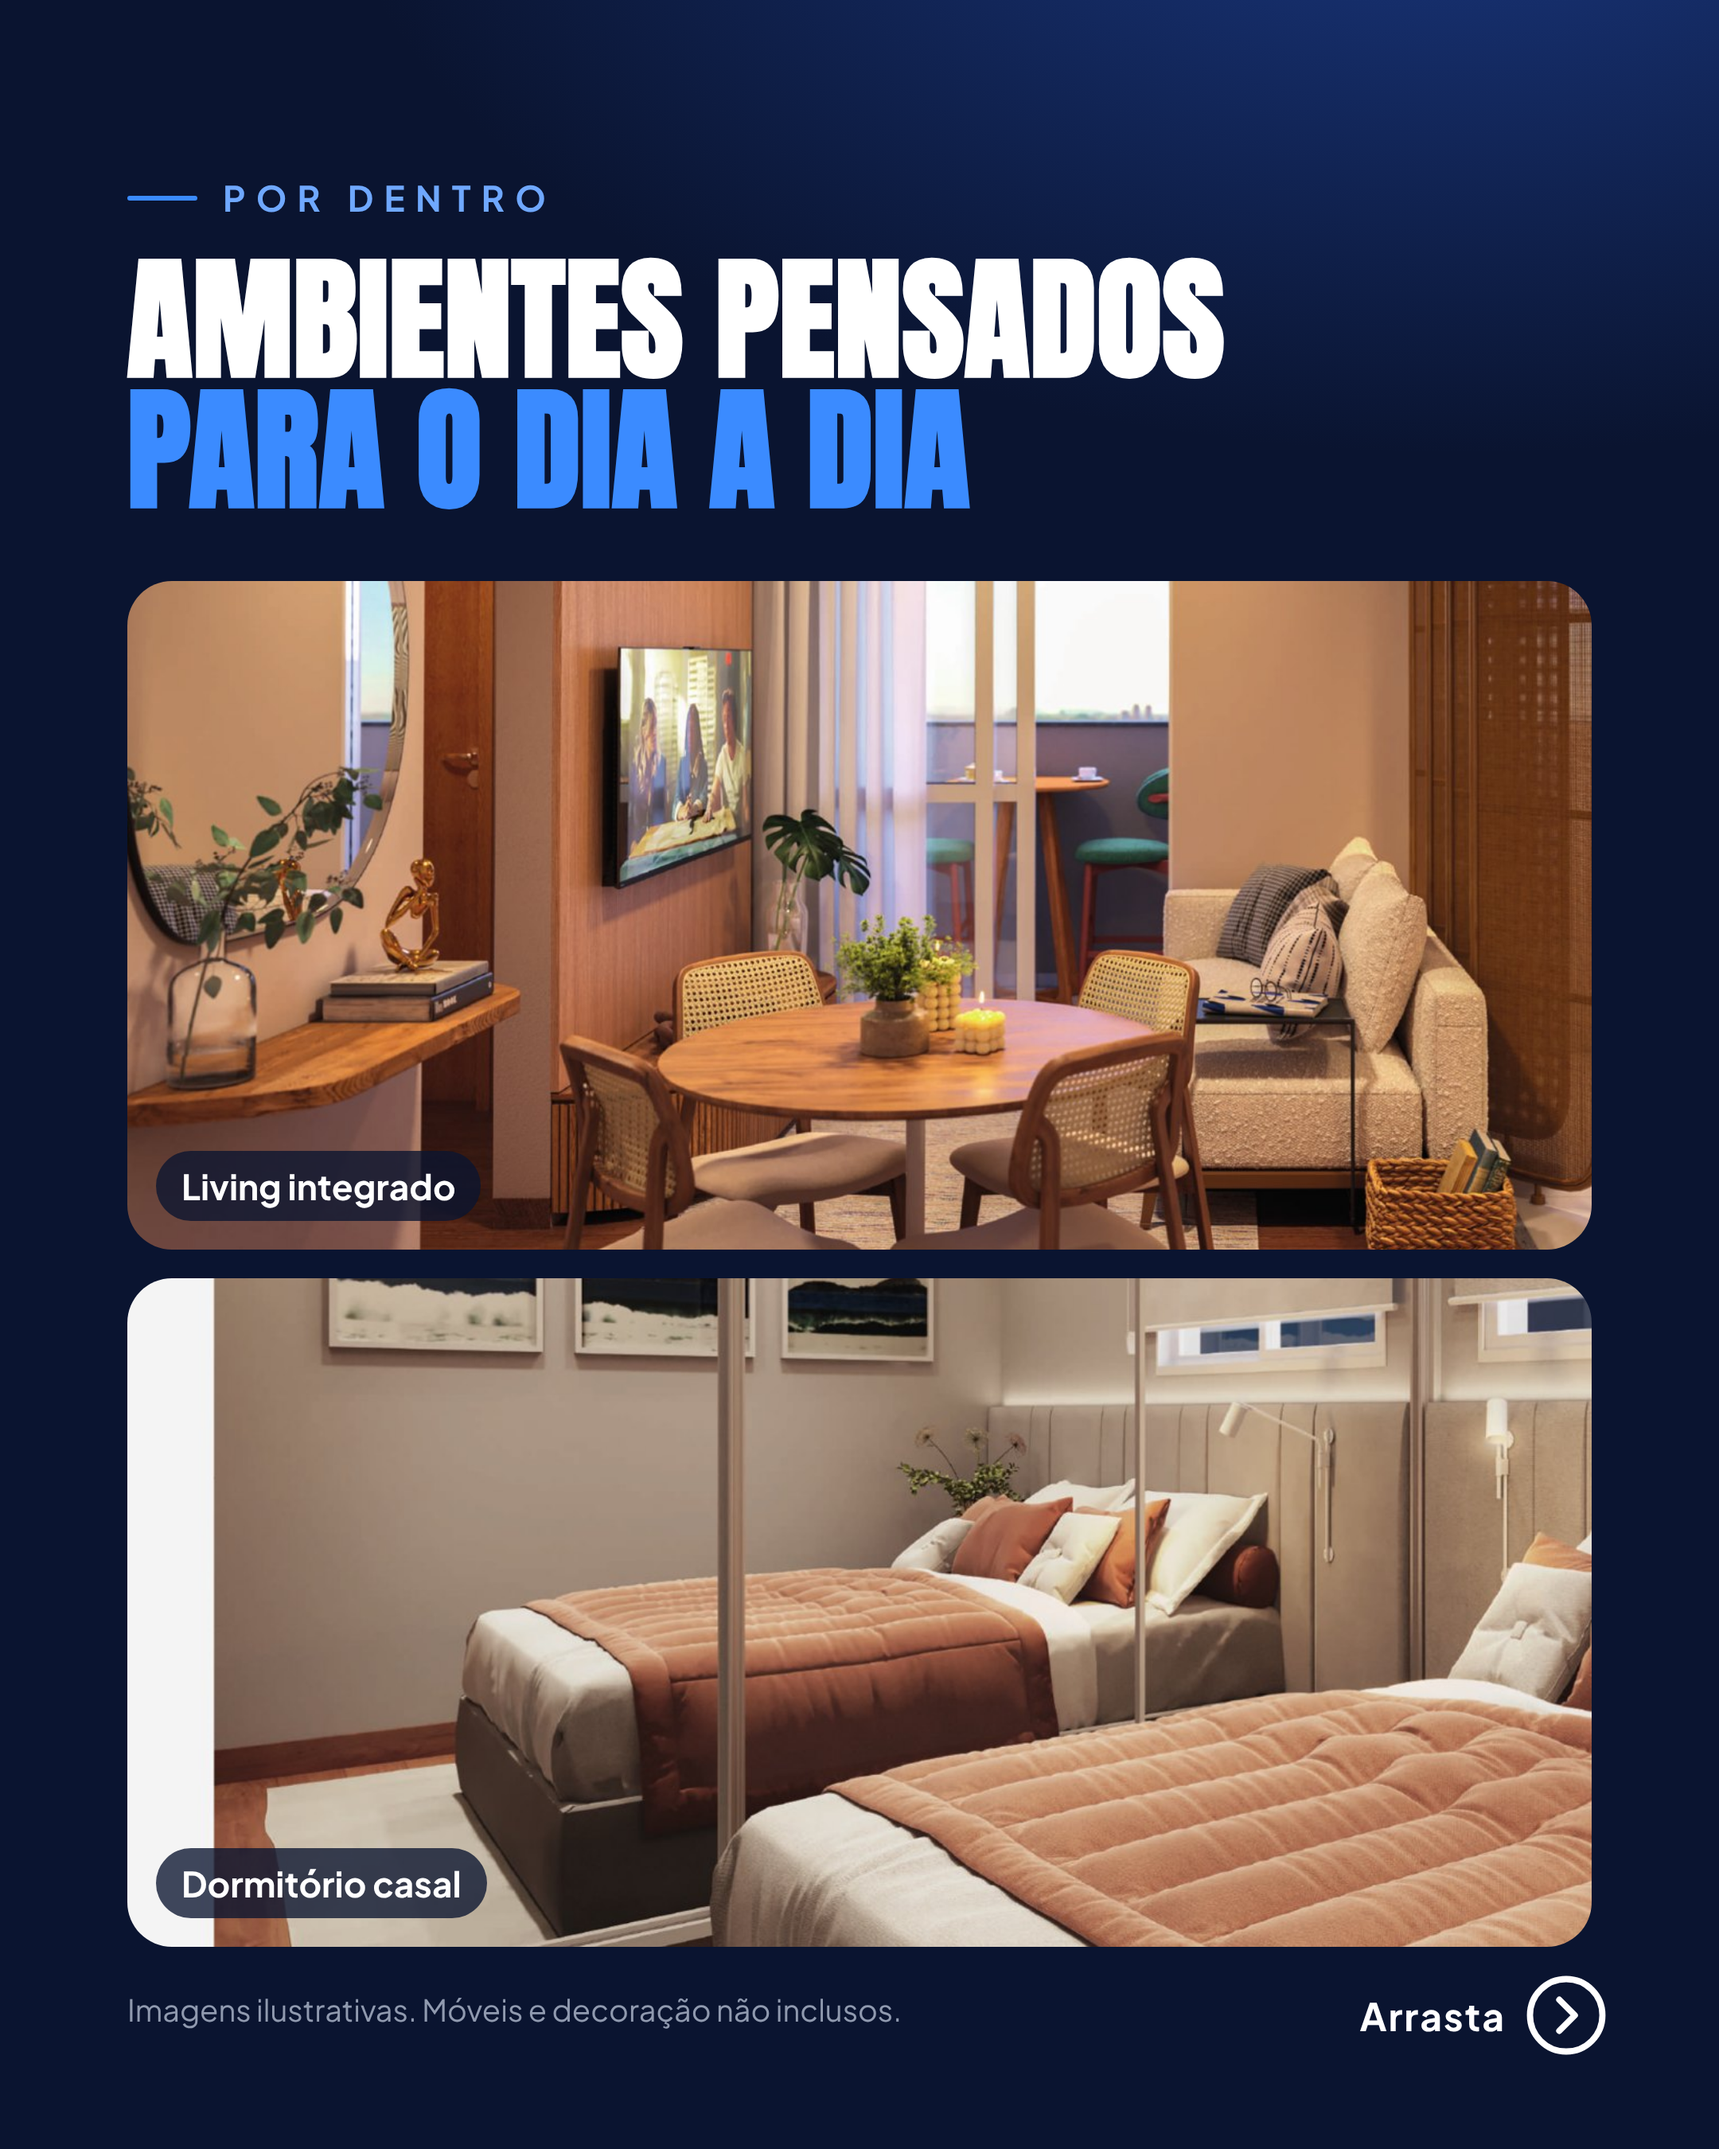
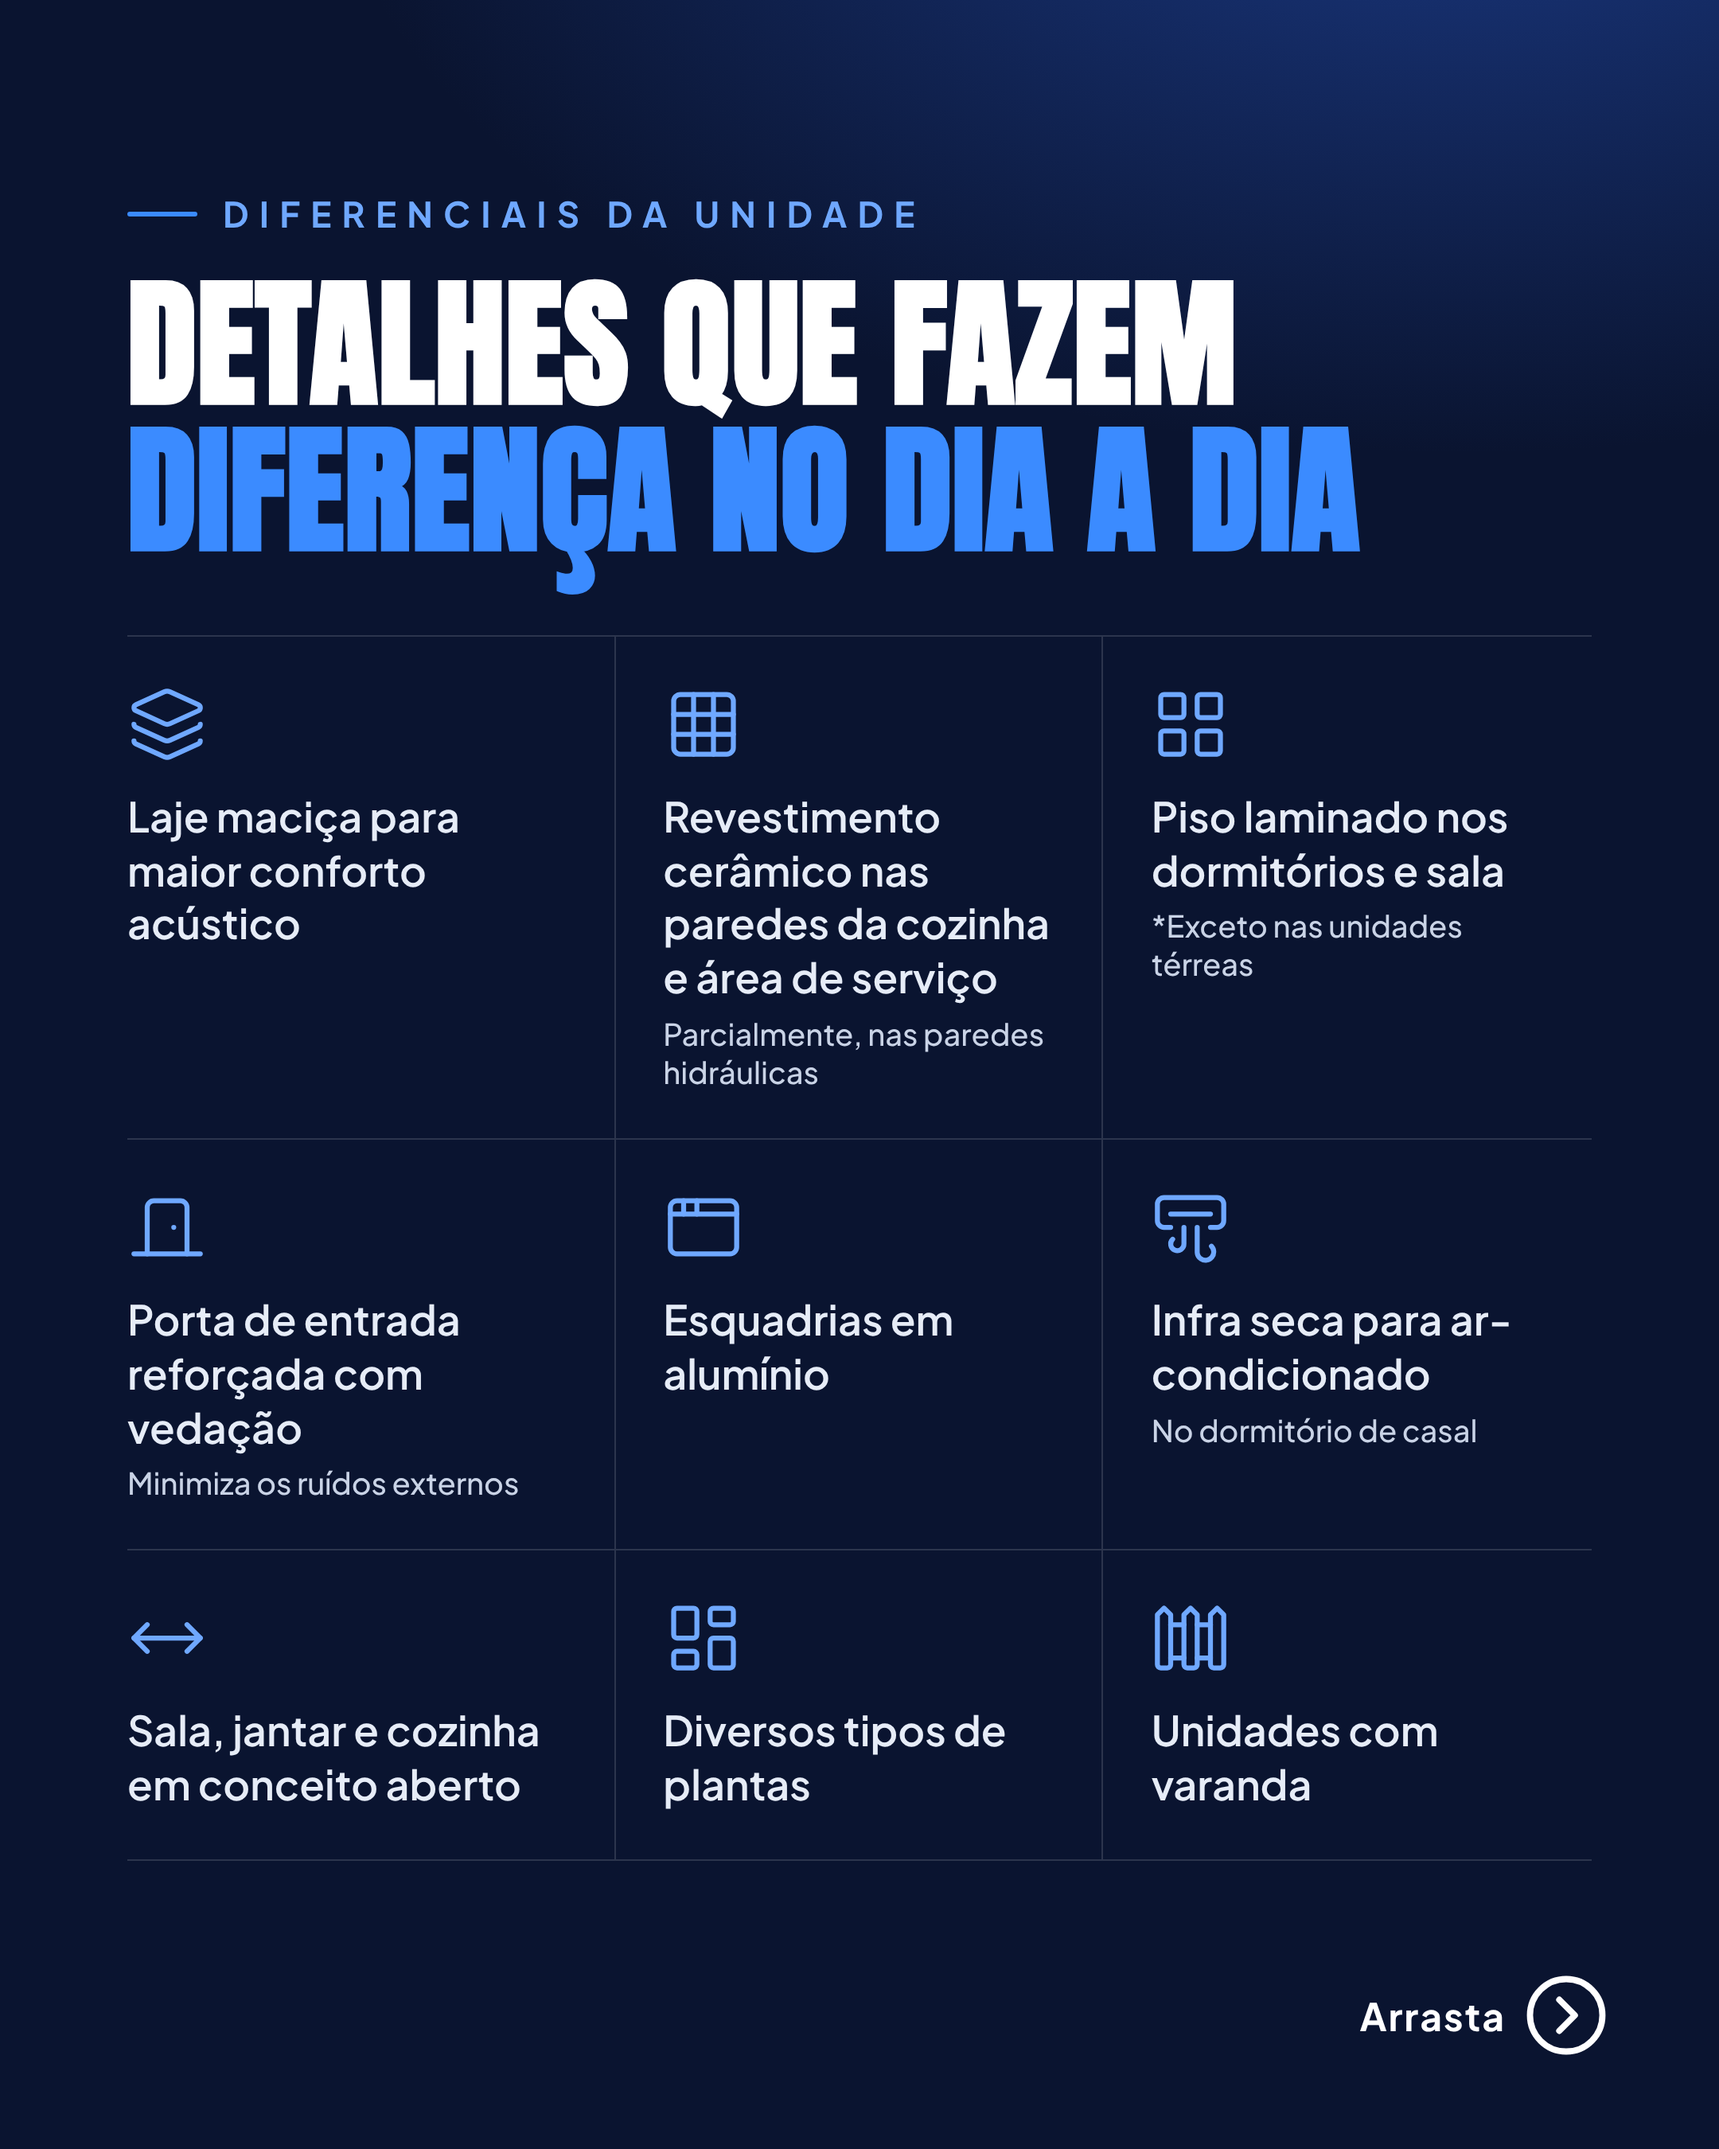
Carrossel OSK: lâminas de diferenciais da unidade e de fluxo de pagamento personalizado (11 lâminas)
Claude-Session: https://claude.ai/code/session_018X91MFfPMRMPYSAfb3KdfT

diff --git a/docs/posicionamento/carrosseis/2026-10-12-osk/laminas.html b/docs/posicionamento/carrosseis/2026-10-12-osk/laminas.html
@@ -82,6 +82,25 @@
   .cta .l1 { font-size:42px; font-weight:500; }
   .cta .l2 { font-size:210px; color:var(--azul); margin:6px 0 10px; }
   .cta .l3 { font-size:38px; font-weight:500; line-height:1.25; color:#E6ECF7; }
+
+  /* diferenciais da unidade */
+  .difs .grade { display:grid; grid-template-columns:1fr 1fr 1fr; margin-top:44px; border-top:1.5px solid var(--linha); }
+  .difs .c { padding:30px 22px 30px 0; border-bottom:1.5px solid var(--linha); }
+  .difs .c:not(:nth-child(3n)) { border-right:1.5px solid var(--linha); }
+  .difs .c:not(:nth-child(3n+1)) { padding-left:30px; }
+  .difs .c svg { width:50px; height:50px; fill:none; stroke:var(--azul2); stroke-width:1.5; stroke-linecap:round; stroke-linejoin:round; display:block; margin-bottom:16px; }
+  .difs .c p { font-size:26px; line-height:1.3; color:#E6ECF7; font-weight:600; }
+  .difs .c small { display:block; font-size:19px; color:var(--texto); font-weight:500; margin-top:6px; }
+  /* fluxo de pagamento */
+  .fluxo .passos { margin-top:52px; position:relative; }
+  .fluxo .passos::before { content:""; position:absolute; left:47px; top:60px; bottom:60px; width:3px; background:linear-gradient(var(--azul), rgba(59,139,255,.15)); }
+  .fluxo .p { display:flex; gap:34px; align-items:flex-start; margin-bottom:34px; position:relative; }
+  .fluxo .n { width:96px; height:96px; border-radius:50%; background:var(--navy); border:3px solid var(--azul); display:grid; place-items:center; flex-shrink:0; }
+  .fluxo .n svg { width:44px; height:44px; fill:none; stroke:#fff; stroke-width:1.8; stroke-linecap:round; stroke-linejoin:round; }
+  .fluxo .p small { font-size:20px; font-weight:800; letter-spacing:.24em; color:var(--azul2); text-transform:uppercase; }
+  .fluxo .p h3 { font-size:42px; font-weight:800; margin:6px 0 10px; }
+  .fluxo .destaque { margin-top:10px; background:rgba(59,139,255,.12); border:1.5px solid rgba(59,139,255,.45); border-radius:24px; padding:30px 36px; font-size:30px; line-height:1.4; color:#E6ECF7; }
+  .fluxo .destaque b { color:#fff; }
 </style></head>
 <body>
 
@@ -171,6 +190,15 @@
   <div class="seta"><span>Arrasta</span><svg viewBox="0 0 24 24"><circle cx="12" cy="12" r="10.5"/><path d="M10 7.5 14.5 12 10 16.5"/></svg></div>
 </section>
 
+<section class="lamina difs">
+  <div class="corpo" style="top:120px">
+    <div class="eyebrow">Diferenciais da unidade</div>
+    <h2 class="cond titulo" style="font-size:88px; line-height:1.05">Detalhes que fazem<br><em>diferença no dia a dia</em></h2>
+    <div class="grade"><div class="c"><svg viewBox="0 0 24 24"><path d="M12.83 2.18a2 2 0 0 0-1.66 0L2.6 6.08a1 1 0 0 0 0 1.83l8.58 3.91a2 2 0 0 0 1.66 0l8.58-3.9a1 1 0 0 0 0-1.83z" /> <path d="M2 12a1 1 0 0 0 .58.91l8.6 3.91a2 2 0 0 0 1.65 0l8.58-3.9A1 1 0 0 0 22 12" /> <path d="M2 17a1 1 0 0 0 .58.91l8.6 3.91a2 2 0 0 0 1.65 0l8.58-3.9A1 1 0 0 0 22 17" /></svg><p>Laje maciça para maior conforto acústico</p></div><div class="c"><svg viewBox="0 0 24 24"><rect width="18" height="18" x="3" y="3" rx="2" /> <path d="M3 9h18" /> <path d="M3 15h18" /> <path d="M9 3v18" /> <path d="M15 3v18" /></svg><p>Revestimento cerâmico nas paredes da cozinha e área de serviço</p><small>Parcialmente, nas paredes hidráulicas</small></div><div class="c"><svg viewBox="0 0 24 24"><rect width="7" height="7" x="3" y="3" rx="1" /> <rect width="7" height="7" x="14" y="3" rx="1" /> <rect width="7" height="7" x="14" y="14" rx="1" /> <rect width="7" height="7" x="3" y="14" rx="1" /></svg><p>Piso laminado nos dormitórios e sala</p><small>*Exceto nas unidades térreas</small></div><div class="c"><svg viewBox="0 0 24 24"><path d="M18 20V6a2 2 0 0 0-2-2H8a2 2 0 0 0-2 2v14" /> <path d="M2 20h20" /> <path d="M14 12v.01" /></svg><p>Porta de entrada reforçada com vedação</p><small>Minimiza os ruídos externos</small></div><div class="c"><svg viewBox="0 0 24 24"><rect x="2" y="4" width="20" height="16" rx="2" /> <path d="M10 4v4" /> <path d="M2 8h20" /> <path d="M6 4v4" /></svg><p>Esquadrias em alumínio</p></div><div class="c"><svg viewBox="0 0 24 24"><path d="M6 12H4a2 2 0 0 1-2-2V5a2 2 0 0 1 2-2h16a2 2 0 0 1 2 2v5a2 2 0 0 1-2 2h-2" /> <path d="M6 8h12" /> <path d="M18.3 17.7a2.5 2.5 0 0 1-3.16 3.83 2.53 2.53 0 0 1-1.14-2V12" /> <path d="M6.6 15.6A2 2 0 1 0 10 17v-5" /></svg><p>Infra seca para ar-condicionado</p><small>No dormitório de casal</small></div><div class="c"><svg viewBox="0 0 24 24"><path d="m18 8 4 4-4 4" /> <path d="M2 12h20" /> <path d="m6 8-4 4 4 4" /></svg><p>Sala, jantar e cozinha em conceito aberto</p></div><div class="c"><svg viewBox="0 0 24 24"><rect width="7" height="9" x="3" y="3" rx="1" /> <rect width="7" height="5" x="14" y="3" rx="1" /> <rect width="7" height="9" x="14" y="12" rx="1" /> <rect width="7" height="5" x="3" y="16" rx="1" /></svg><p>Diversos tipos de plantas</p></div><div class="c"><svg viewBox="0 0 24 24"><path d="M4 3 2 5v15c0 .6.4 1 1 1h2c.6 0 1-.4 1-1V5Z" /> <path d="M6 8h4" /> <path d="M6 18h4" /> <path d="m12 3-2 2v15c0 .6.4 1 1 1h2c.6 0 1-.4 1-1V5Z" /> <path d="M14 8h4" /> <path d="M14 18h4" /> <path d="m20 3-2 2v15c0 .6.4 1 1 1h2c.6 0 1-.4 1-1V5Z" /></svg><p>Unidades com varanda</p></div></div>
+  </div>
+  <div class="seta"><span>Arrasta</span><svg viewBox="0 0 24 24"><circle cx="12" cy="12" r="10.5"/><path d="M10 7.5 14.5 12 10 16.5"/></svg></div>
+</section>
+
 <section class="lamina dentro">
   <div class="corpo" style="top:110px">
     <div class="eyebrow">Por dentro</div>
@@ -195,6 +223,21 @@
       <div class="pl"><img src="img/planta-garden-c.jpg" alt=""><div>55,32 m²<small>+ 27,56 m² de garden</small></div></div>
     </div>
   </div>
+  <div class="seta"><span>Arrasta</span><svg viewBox="0 0 24 24"><circle cx="12" cy="12" r="10.5"/><path d="M10 7.5 14.5 12 10 16.5"/></svg></div>
+</section>
+
+<section class="lamina fluxo">
+  <div class="corpo" style="top:120px">
+    <div class="eyebrow">Pagamento</div>
+    <h2 class="cond titulo" style="font-size:88px; line-height:1.05">Um fluxo de pagamento<br><em>do seu tamanho</em></h2>
+    <div class="passos">
+      <div class="p"><span class="n"><svg viewBox="0 0 24 24"><rect width="16" height="20" x="4" y="2" rx="2" /> <line x1="8" x2="16" y1="6" y2="6" /> <line x1="16" x2="16" y1="14" y2="18" /> <path d="M16 10h.01" /> <path d="M12 10h.01" /> <path d="M8 10h.01" /> <path d="M12 14h.01" /> <path d="M8 14h.01" /> <path d="M12 18h.01" /> <path d="M8 18h.01" /></svg></span><div><small>Passo 1</small><h3>Simulação sem compromisso</h3><p class="texto">Entendo a sua renda, o seu momento e quanto você quer investir por mês.</p></div></div>
+      <div class="p"><span class="n"><svg viewBox="0 0 24 24"><line x1="21" x2="14" y1="4" y2="4" /> <line x1="10" x2="3" y1="4" y2="4" /> <line x1="21" x2="12" y1="12" y2="12" /> <line x1="8" x2="3" y1="12" y2="12" /> <line x1="21" x2="16" y1="20" y2="20" /> <line x1="12" x2="3" y1="20" y2="20" /> <line x1="14" x2="14" y1="2" y2="6" /> <line x1="8" x2="8" y1="10" y2="14" /> <line x1="16" x2="16" y1="18" y2="22" /></svg></span><div><small>Passo 2</small><h3>Fluxo personalizado</h3><p class="texto">Montamos juntos a entrada e as parcelas durante a obra de um jeito que cabe no seu orçamento.</p></div></div>
+      <div class="p"><span class="n"><svg viewBox="0 0 24 24"><line x1="3" x2="21" y1="22" y2="22" /> <line x1="6" x2="6" y1="18" y2="11" /> <line x1="10" x2="10" y1="18" y2="11" /> <line x1="14" x2="14" y1="18" y2="11" /> <line x1="18" x2="18" y1="18" y2="11" /> <polygon points="12 2 20 7 4 7" /></svg></span><div><small>Passo 3</small><h3>Financiamento na entrega</h3><p class="texto">O saldo é financiado com o banco, com todo o acompanhamento até a sua chave.</p></div></div>
+    </div>
+    <div class="destaque"><b>Cada cliente tem uma realidade.</b> Por isso o plano é feito para você, e não o contrário.</div>
+  </div>
+  <div class="nota" style="bottom:130px">Condições sujeitas à análise de crédito e à tabela vigente da incorporadora.</div>
   <div class="seta"><span>Arrasta</span><svg viewBox="0 0 24 24"><circle cx="12" cy="12" r="10.5"/><path d="M10 7.5 14.5 12 10 16.5"/></svg></div>
 </section>
 

diff --git a/docs/posicionamento/carrosseis/2026-10-12-osk/legenda.md b/docs/posicionamento/carrosseis/2026-10-12-osk/legenda.md
@@ -6,6 +6,9 @@ Lançamento da Vitta Residencial na região central de Marília, na Rua Palmares
 🌿 Só 10 unidades com garden privativo
 🏊 Lazer completo, entregue equipado e decorado: piscinas, fitness, coworking, salão de festas, churrasqueira, happy hour, play kids, pet place e Mercado Vitta
 🚗 1 vaga por apartamento e 2 elevadores por torre
+🔇 Laje maciça, porta com vedação acústica e infra para ar-condicionado
+
+💳 E o fluxo de pagamento é montado de acordo com a sua realidade, para caber no seu orçamento.
 
 Gostou de alguma planta? Me chama na DM que eu te passo as condições e faço a sua simulação.
 
